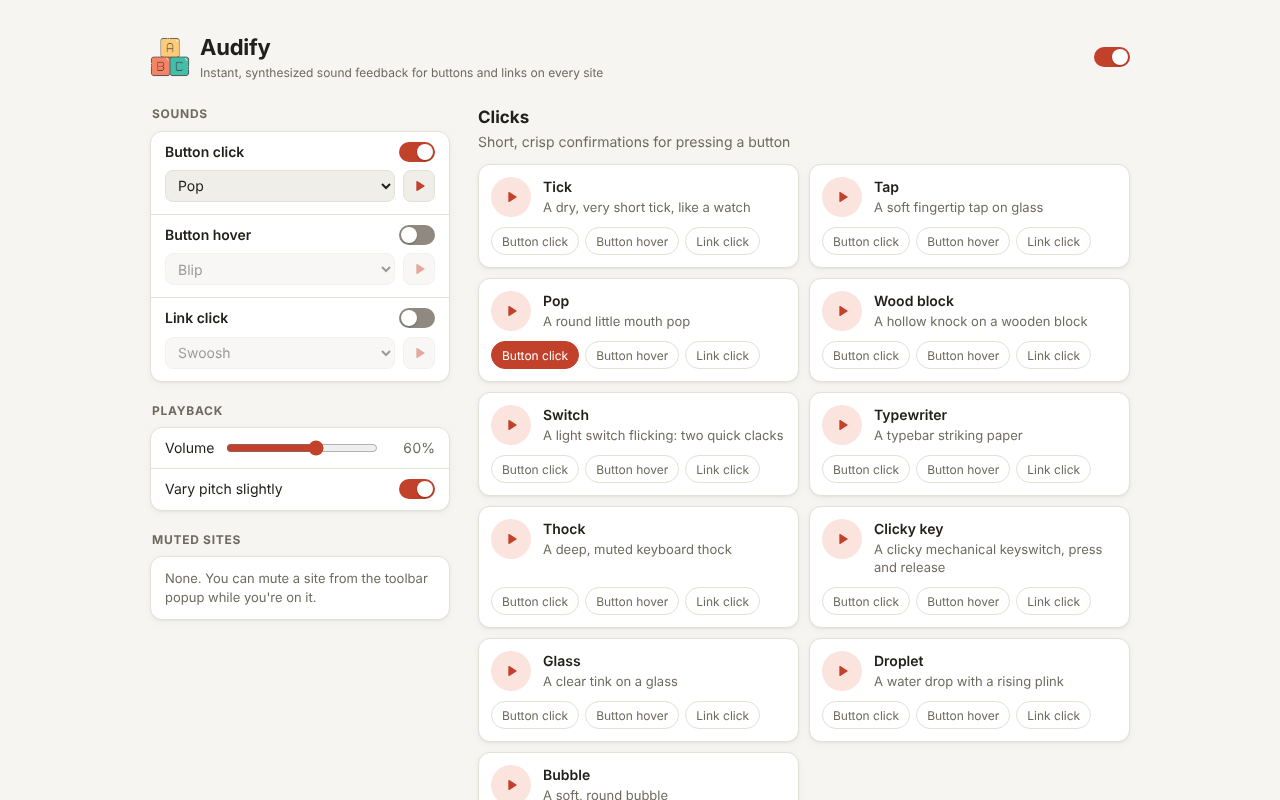
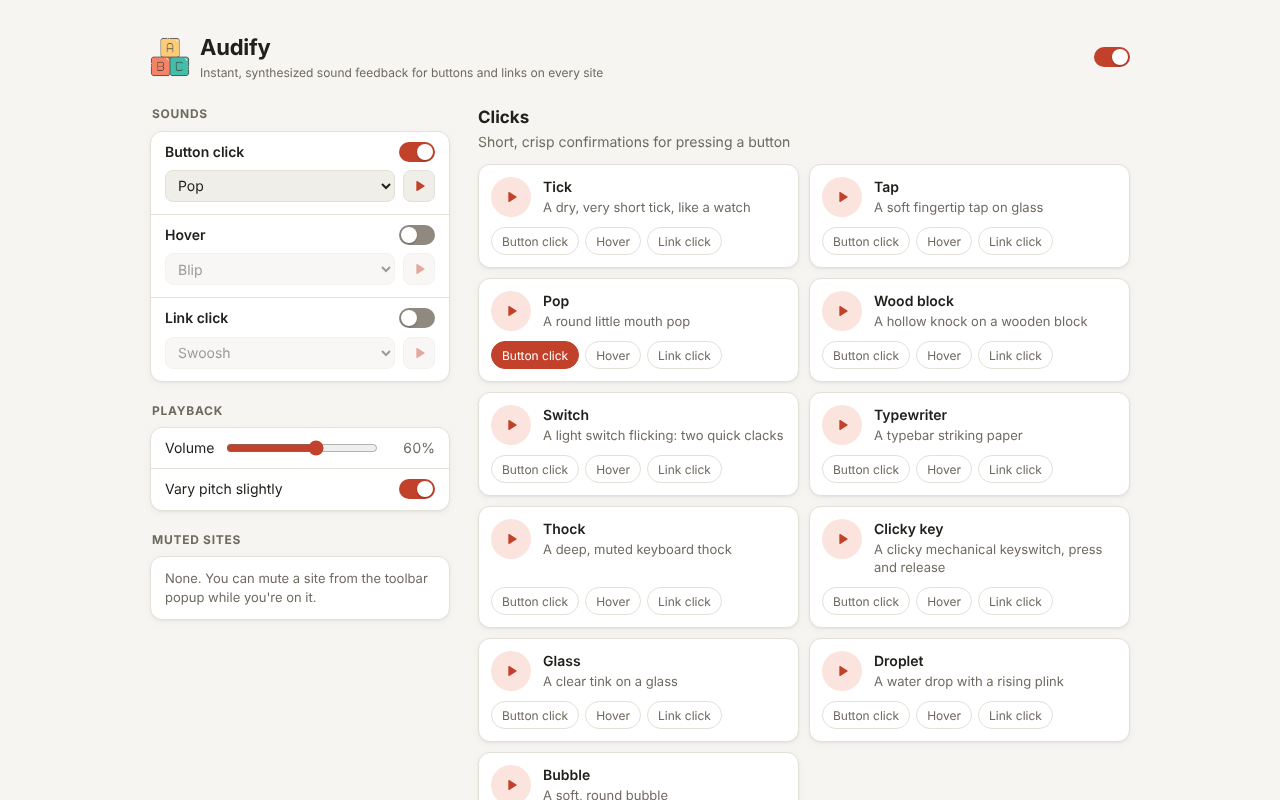
Play the hover sound on links as well as buttons
The setting is now labelled "Hover"; its storage key stays buttonHover so
saved settings carry over. Store copy, privacy policy and screenshots updated.

Claude-Session: https://claude.ai/code/session_01ShTrykKG93X1Y7owMCzPuZ

diff --git a/extension/src/content.ts b/extension/src/content.ts
@@ -37,13 +37,12 @@
 
   function onPointerOver(e: PointerEvent) {
     if (e.pointerType != "mouse") return;
-    const hit = findTarget(e);
-    const button = hit?.kind == "button" ? hit.elem : null;
-    if (button && button != lastHovered && e.timeStamp - lastHoverTime > 40) {
+    const target = findTarget(e)?.elem ?? null;
+    if (target && target != lastHovered && e.timeStamp - lastHoverTime > 40) {
       lastHoverTime = e.timeStamp;
       play("buttonHover");
     }
-    lastHovered = button;
+    lastHovered = target;
   }
 
   function play(kind: ActionKind) {

diff --git a/extension/src/common.ts b/extension/src/common.ts
@@ -1,3 +1,4 @@
+//buttonHover covers links too; the key keeps its original name so saved settings carry over
 type ActionKind = "buttonClick" | "buttonHover" | "linkClick";
 
 interface ActionSetting {
@@ -16,7 +17,7 @@ interface Settings {
 
 const actionLabels: Record<ActionKind, string> = {
   buttonClick: "Button click",
-  buttonHover: "Button hover",
+  buttonHover: "Hover",
   linkClick: "Link click",
 }
 

diff --git a/CHROMEWEBSTORE.md b/CHROMEWEBSTORE.md
@@ -11,15 +11,15 @@ Copy-paste source for the Chrome Web Store Developer Dashboard. Keep it in sync 
 Audify - Web Browsing Sound Effects
 
 **Short Description** (132 max)
-Instant sound feedback when you press buttons, hover over them, or click links, on every website.
+Instant sound feedback when you press buttons, click links, or hover over them, on every website.
 
 **Detailed Description**
-Audify plays a short, instant sound whenever you press a button on a web page, so you always know your click registered. Optionally, it can also play a sound when you hover over a button or click a link.
+Audify plays a short, instant sound whenever you press a button on a web page, so you always know your click registered. Optionally, it can also play a sound when you click a link or hover over a button or link.
 
 Built for people who rely on sound. Many of us notice a missing click sound more than a missing visual change. Audify gives every button and link the kind of audible response physical controls have, with no noticeable delay.
 
 47 sounds to choose from: crisp ticks, taps, pops, wood blocks, typewriter and keyboard clicks, quiet hover blips, chimes and swooshes for links, comical sounds such as boink, quack, honk, kazoo and slide whistle, and retro 8-bit bleeps like menu cursors, jumps and power-ups.
-Separate sound choices for button presses, button hovers and link clicks.
+Separate sound choices for button presses, link clicks and hovers.
 Works with the keyboard too: pressing Enter or Space on a button or link plays its sound.
 Volume control and optional slight pitch variation, so repeated sounds feel natural.
 Mute Audify on any site with one switch from the toolbar.
@@ -38,7 +38,7 @@ Feedback and bug reports: https://github.com/ken107/audify/issues
 Accessibility
 
 **Single Purpose**
-Plays a short sound effect when the user presses a button, hovers over a button, or clicks a link on a web page.
+Plays a short sound effect when the user presses a button, clicks a link, or hovers over a button or link on a web page.
 
 **Primary Language**
 English

diff --git a/PRIVACY.md b/PRIVACY.md
@@ -2,8 +2,8 @@
 
 Last updated: 2026-10-30
 
-Audify plays a short sound when you press a button, hover over a button, or click a link on a
-web page. It does this entirely inside your browser.
+Audify plays a short sound when you press a button, click a link, or hover over a button or link
+on a web page. It does this entirely inside your browser.
 
 **What Audify reads on web pages.** On each page, Audify notices when you press, hover over, or
 activate (with Enter or Space) a button or link, so it knows when to play a sound. It does not read,

diff --git a/README.md b/README.md
@@ -1,7 +1,7 @@
 # Audify
 
 Web browsing sound effects, as a browser extension. Audify plays a short sound when you press a
-button, and optionally when you hover a button or click a link, on every website. It's meant for
+button, and optionally when you click a link or hover over a button or link, on every website. It's meant for
 people who rely on sound to know their input registered.
 
 ## How it works
